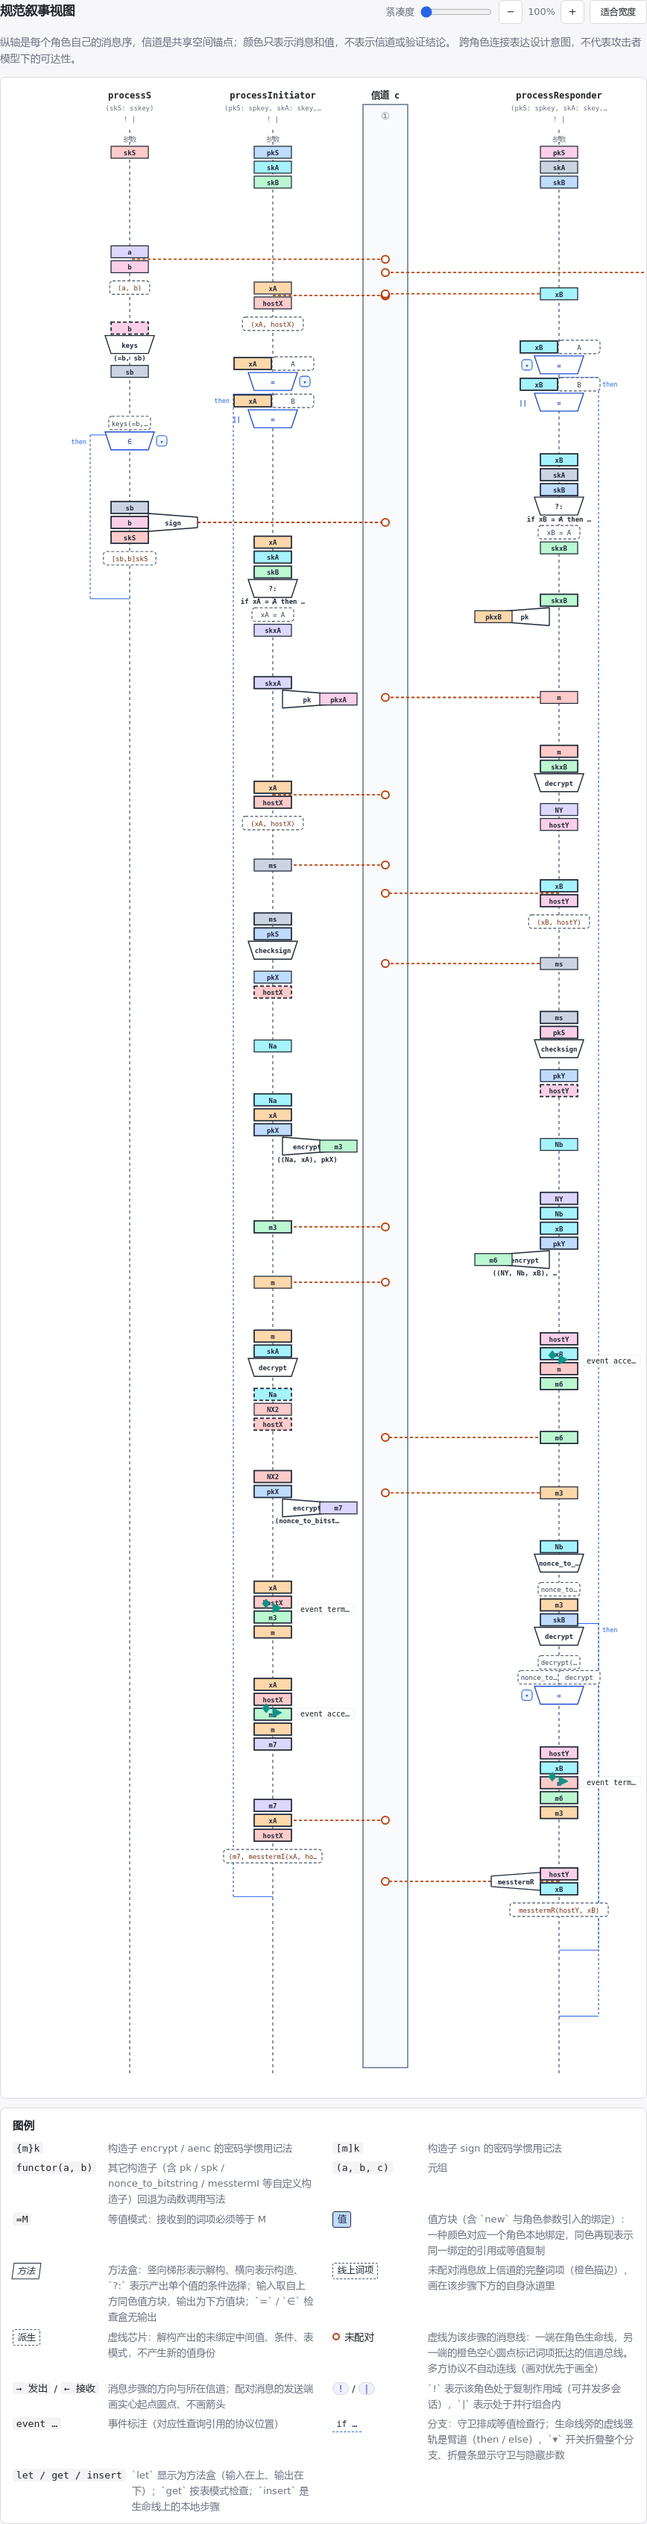
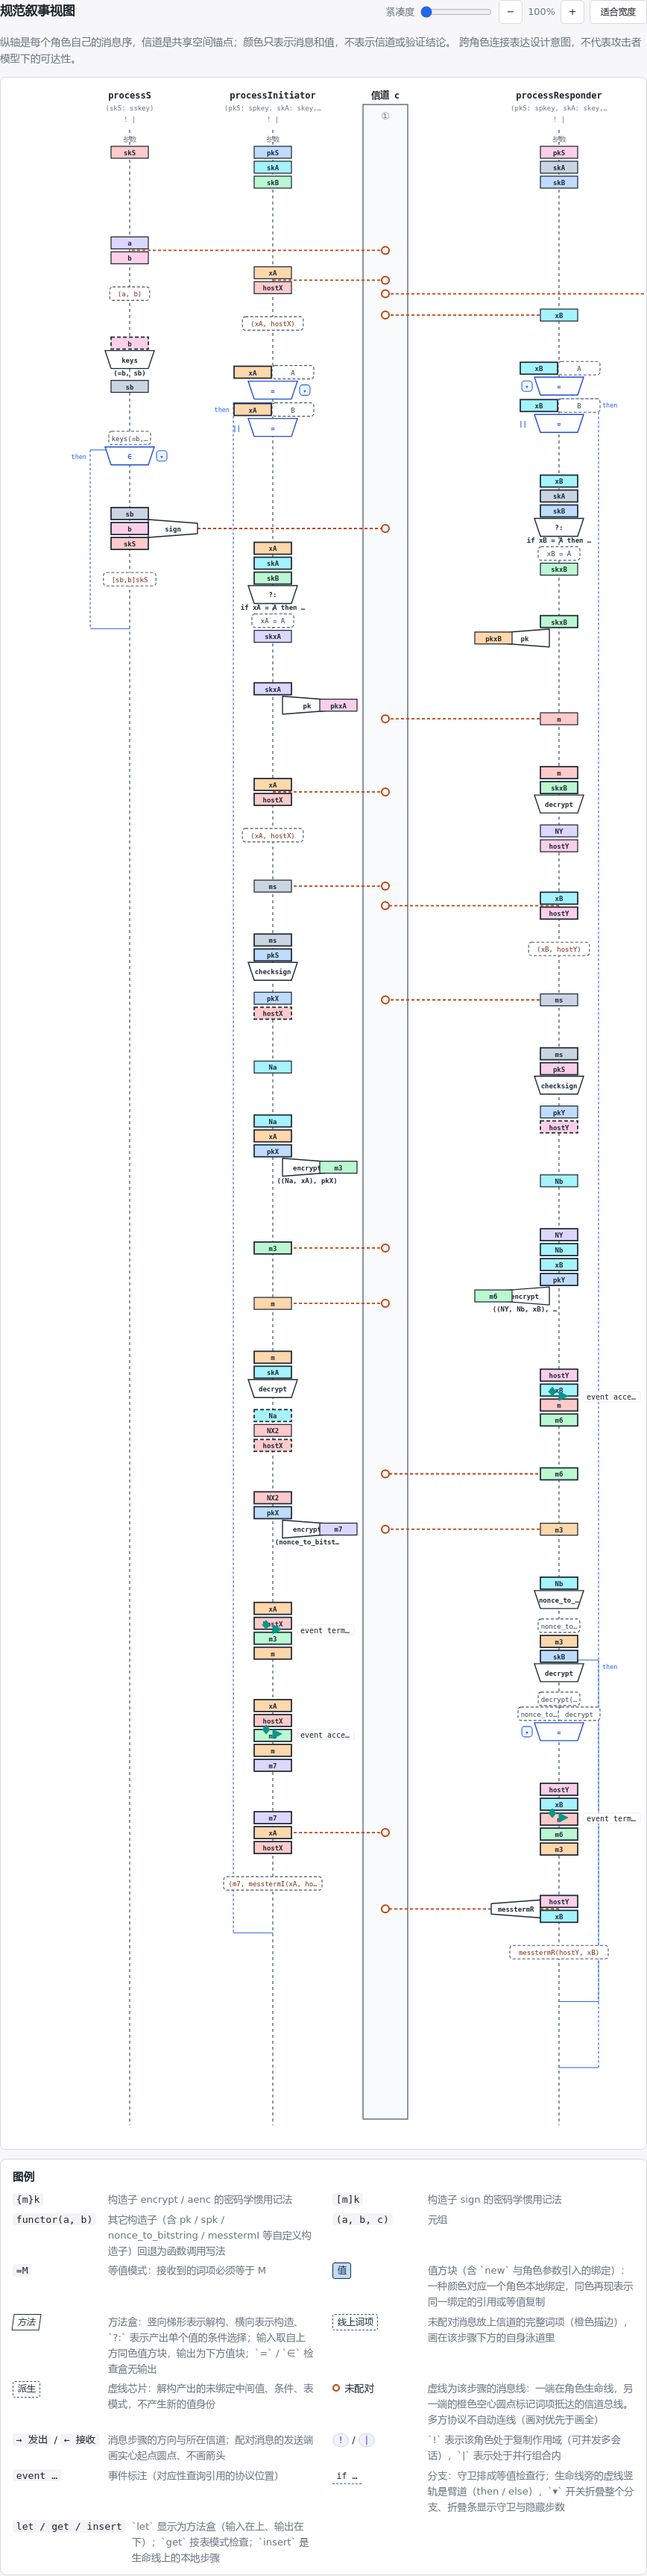
fix(pv-lens): address ticket 07a code-review findings
- global y-uniqueness domain now holds message endpoints only (local
  steps no longer push message arrows down; spurious conflicts gone)
- spacing iteration runs to band-set fixpoint (cap 6) with a final
  residual check: mutual-crossing wires can make the greedy path
  oscillate (fixpoint exists but is unreachable); leftovers surface as
  explicit spacing-band conflicts instead of silent overlap
- unified action-start line across roles (max param-cluster bottom +
  group tier, decision 08 clause 4); wire chips become standalone tight
  units instead of folded into row height
- reuse core gapUnitOf; drop prefix round-trip map; per-role fallback;
  kind/rigid documented as caller contracts

diff --git a/pv-lens/packages/web/src/narrative/structured-layout.ts b/pv-lens/packages/web/src/narrative/structured-layout.ts
@@ -11,7 +11,7 @@ import type {
   SourceSpan,
 } from '@pv-lens/core';
 import { narrativeRoleOrder, renderTerm, solveHorizontalSequence } from '@pv-lens/core';
-import { solveSpacing } from '@pv-lens/core';
+import { gapUnitOf, solveSpacing } from '@pv-lens/core';
 import type { SpacingUnit } from '@pv-lens/core';
 import type { HorizontalNode, HorizontalSequence } from '@pv-lens/core';
 
@@ -279,7 +279,7 @@ export function buildStructuredNarrativeLayout(
 ): StructuredNarrativeLayout {
   const roles = narrativeRoleOrder(result);
   const compactness = clamp(options.compactness ?? 0, 0, 1);
-  const gapUnit = 26 - compactness * 8;
+  const gapUnit = gapUnitOf(compactness);
   const horizontal = solveHorizontalSequence(result);
   const roleByName = new Map(roles.map((role) => [role.name, role]));
   // 臂道画在信道外侧、构造链画在内侧（朝信道）——与 prototype 08 同口径。
@@ -388,9 +388,6 @@ export function buildStructuredNarrativeLayout(
       : item.kind === 'message'
         ? METRICS.messageHeight
         : METRICS.localHeight;
-  const startOffsetOf = (parameterCount: number): number => parameterCount === 0
-    ? margin + METRICS.headerHeight + METRICS.parameterHeight
-    : METRICS.headerHeight + METRICS.parameterLabelGap + 14;
   /** 该消息端的水平线穿过的中间角色下标（解算器据此产生禁置带；几何判定只在此处）。 */
   const crossedRolesOf = (roleName: string, channelName: string): number[] => {
     const column = roleColumns.get(roleName);
@@ -413,17 +410,26 @@ export function buildStructuredNarrativeLayout(
 
   interface RowMeta { chain: readonly ChainEntry[]; rowHeight: number; chip: boolean }
   /**
-   * 三段式（ticket 07）：一次遍历构建每角色的布局单元（参数簇 / 行 / 折叠条），
+   * 三段式（ticket 07）：一次遍历构建每角色的布局单元（参数簇 / 行 / 芯片 / 折叠条），
    * 交给 core 的 `solveSpacing` 分配 y（三层档位、禁置带收敛、显式冲突都在解算器内），
-   * 发射阶段只按解算结果摆放。参数簇与折叠条是刚性单元；行单元的高度含未配对
-   * 线上芯片的附加段；群组边界（参数簇后首行 / join 后 / 折叠条后）用 group 档。
+   * 发射阶段只按解算结果摆放。参数簇与折叠条是刚性单元；未配对线上芯片是紧跟其行的
+   * 独立 tight 单元（decision 08 把芯片列为闭集单元，不并入行高）；群组边界
+   * （参数簇后首行 / join 后 / 折叠条后）用 group 档。动作区起点全图统一：
+   * 所有角色的首行 top = max(各角色参数簇底) + group 档（decision 08 §4）。
    */
   const rowMetaByKey = new Map<string, RowMeta>();
   const unitsByRole: SpacingUnit[][] = roles.map(() => []);
+  const parameterClusterHeight = roles.reduce(
+    (max, role) => Math.max(max, role.bindings.filter((binding) => binding.kind === 'parameter').length * METRICS.valuePitch),
+    0,
+  );
+  const parameterTop = METRICS.headerHeight + METRICS.parameterLabelGap + 14;
+  // 无参数簇的角色从统一动作线起步；有簇角色的簇固定画在 paramTop，簇后首行经 group 档落在同一条线上。
+  const actionStart = parameterTop + parameterClusterHeight + Math.max(50, 2.4 * gapUnit);
   const startOffsets: number[] = [];
   roles.forEach((role, roleIndex) => {
     const parameterCount = role.bindings.filter((binding) => binding.kind === 'parameter').length;
-    startOffsets[roleIndex] = startOffsetOf(parameterCount);
+    startOffsets[roleIndex] = parameterCount > 0 ? parameterTop : actionStart;
     const units = unitsByRole[roleIndex] ?? [];
     unitsByRole[roleIndex] = units;
     if (parameterCount > 0) {
@@ -463,12 +469,12 @@ export function buildStructuredNarrativeLayout(
       const rowHeight = Math.max(baseHeightOf(item), chainHeightOf(chain) + METRICS.chainPadding);
       const chip = wireChipOf(item, roleIndex);
       const message = item.kind === 'message';
+      const key = rowKeyOf(roleIndex, itemIndex);
       units.push({
-        id: rowKeyOf(roleIndex, itemIndex),
+        id: key,
         roleIndex,
         kind: 'row',
-        // 行高含未配对线上芯片段（芯片排在该行值层之下，占位须一并入解算）。
-        height: rowHeight + (chip ? METRICS.wireChipGap + METRICS.chipHeight : 0),
+        height: rowHeight,
         rigid: false,
         messageEndpoint: message,
         ...(message
@@ -476,7 +482,19 @@ export function buildStructuredNarrativeLayout(
           : {}),
         gapTier: prevIsBoundary ? 'group' : 'row',
       });
-      rowMetaByKey.set(rowKeyOf(roleIndex, itemIndex), { chain, rowHeight, chip });
+      if (chip) {
+        // 芯片是独立 tight 单元：不占消息箭头的唯一域，只随行栈推进。
+        units.push({
+          id: `${key}:chip`,
+          roleIndex,
+          kind: 'row',
+          height: METRICS.chipHeight,
+          rigid: false,
+          messageEndpoint: false,
+          gapTier: 'tight',
+        });
+      }
+      rowMetaByKey.set(key, { chain, rowHeight, chip });
       prevIsBoundary = item.kind === 'branch' && item.marker === 'join';
     });
   });
@@ -486,12 +504,7 @@ export function buildStructuredNarrativeLayout(
     reserveHalf: METRICS.crossReserveHalf,
     startOffsetByRole: startOffsets,
   });
-  const rowYOf = (key: string): number => spacing.yByUnitId.get(key) ?? (startOffsets[0] ?? margin);
-  const foldYByBranch = new Map(
-    [...spacing.yByUnitId.keys()]
-      .filter((key) => key.startsWith('fold:'))
-      .map((key) => [key.slice('fold:'.length), spacing.yByUnitId.get(key) ?? 0]),
-  );
+  const rowYOf = (key: string, fallback: number): number => spacing.yByUnitId.get(key) ?? fallback;
 
   roles.forEach((role, roleIndex) => {
     const column = roleColumns.get(role.name);
@@ -532,7 +545,7 @@ export function buildStructuredNarrativeLayout(
       if (isBranchStart(item) && collapsedBranches.has(item.id)) {
         const hiddenCount = countBranchItems(role.items, itemIndex);
         const height = METRICS.branchFoldHeight;
-        const y = foldYByBranch.get(item.id) ?? rowYOf(`fold:${item.id}`);
+        const y = rowYOf(`fold:${item.id}`, startOffsets[roleIndex] ?? margin);
         const label = `▸ ${branchLabel(item)} · +${String(hiddenCount)}`;
         // 折叠条封在自身泳道内（F8）：不再越列压到邻列元素，文字随宽截断。
         const width = Math.min(METRICS.branchFoldMaxWidth, METRICS.columnWidth - 8, 24 + label.length * CHAR_WIDTH);
@@ -554,12 +567,11 @@ export function buildStructuredNarrativeLayout(
       }
 
       const stepItem = item.kind === 'message' ? item : undefined;
-      let wireChipBottom = 0;
       // 行几何来自单元构建缓存（chain 只算一遍），y 来自 core 解算器；兜底路径仅防御解算缺项。
       const meta = rowMetaByKey.get(rowKeyOf(roleIndex, itemIndex));
       const chain = meta?.chain ?? chainOfItem(item, roleIndex);
       const rowHeight = meta?.rowHeight ?? Math.max(baseHeightOf(item), chainHeightOf(chain) + METRICS.chainPadding);
-      const y = rowYOf(rowKeyOf(roleIndex, itemIndex));
+      const y = rowYOf(rowKeyOf(roleIndex, itemIndex), startOffsets[roleIndex] ?? margin);
 
       if (item.kind === 'branch') {
         if (item.marker === 'branch') {
@@ -828,12 +840,11 @@ export function buildStructuredNarrativeLayout(
               });
             }
           }
-          // 未配对端的线上词项芯片（F2）：落在自身泳道、该行值层之下，宽度按文字估算，
-          // 描边用未配对橙与虚线/空心点同色——不再画在 0.72 分位点压住邻列文字。
-          if (meta?.chip === true) {
+          // 未配对端的线上词项芯片（F2）：独立的 tight 单元（ticket 07），y 由解算器分配，
+          // 宽度按文字估算；描边用未配对橙与虚线/空心点同色。
+          if (meta?.chip === true && stepItem !== undefined) {
             const text = renderTerm(stepItem.endpoint.term);
             const chipWidth = Math.min(METRICS.wireChipMaxWidth, 20 + text.length * CAPTION_CHAR_WIDTH);
-            const chipY = Math.max(y + rowHeight / 2, slotTop) + METRICS.wireChipGap + METRICS.chipHeight / 2;
             chips.push({
               id: `${item.id}:wire-chip`,
               roleIndex,
@@ -841,20 +852,15 @@ export function buildStructuredNarrativeLayout(
               kind: 'wire',
               color: UNPAIRED_COLOR,
               x: lifelineX,
-              y: chipY,
+              y: rowYOf(`${rowKeyOf(roleIndex, itemIndex)}:chip`, y + rowHeight / 2 + METRICS.chipHeight / 2),
               width: chipWidth,
               height: METRICS.chipHeight,
               sourceSpan: item.span,
             });
             maxTextRight = Math.max(maxTextRight, lifelineX + chipWidth / 2);
-            wireChipBottom = chipY + METRICS.chipHeight / 2;
           }
         }
       }
-
-      // 芯片可能因禁置带/链下移而低于常规行底，游标取两者较大者。
-      // 解算器已含全部占位（含芯片段）；发射侧只需兜底「芯片因链槽极端排布低于单元底」的极端情形。
-      if (wireChipBottom > 0) maxBottom = Math.max(maxBottom, wireChipBottom + gapUnit);
     });
   });
 

diff --git a/pv-lens/packages/core/src/spacing.ts b/pv-lens/packages/core/src/spacing.ts
@@ -13,10 +13,11 @@ export type GapTier = 'tight' | 'row' | 'group';
 export interface SpacingUnit {
   id: string;
   roleIndex: number;
-  /** 单元类别；行（含消息行/事件/本地步骤/链）由调用方合并为 row 单元。 */
+  /** 单元类别；解算器不按 kind 分支（高度不透明即刚性）——kind 供 07b 折叠团与调试定位。 */
   kind: 'parameter-cluster' | 'row' | 'branch-fold' | 'fold-group';
   height: number;
-  /** 刚性单元（参数簇/折叠团）：内部间距已计入 height，只整体放置，绝不压缩。 */
+  /** 刚性声明（参数簇/折叠团）：内部间距已计入 height；解算器对任何单元都只整体放置，
+   *  flag 是调用方契约自述，供读取方识别「该高度不可再分解」。 */
   rigid: boolean;
   /** 消息端行：y 进入全局唯一域，并对 crossedRoles 列产生禁置带。 */
   messageEndpoint: boolean;
@@ -73,19 +74,58 @@ const SEPARATION_STEP = 4;
 const BAND_MARGIN = 2;
 
 /**
- * 解算纵向布局。禁置带依赖消息端 y、消息端 y 又依赖禁置带，故内部做三遍迭代
- * （第一遍无带求初始线位，随后每遍用最新带重放）；输入确定则输出确定。
+ * 解算纵向布局。禁置带依赖消息端 y、消息端 y 又依赖禁置带，故迭代至带集合稳定
+ * （每遍用最新带重放；稳定 = 放置所用带与解自身导出的带一致，即自洽），上限 6 遍；
+ * 输入确定则输出确定。互穿线过度约束、残留带命中时由 placeUnits 记为显式冲突。
  */
 export function solveSpacing(request: SpacingRequest): SpacingSolution {
   const unit = gapUnitOf(request.compactness);
   const reserveHalf = request.reserveHalf ?? 11;
   let reserved = new Map<number, number[]>();
   let solution = placeUnits(request, unit, reserveHalf, reserved);
-  for (let pass = 0; pass < 2; pass += 1) {
-    reserved = deriveReservations(request, solution);
+  for (let pass = 0; pass < 6; pass += 1) {
+    const next = deriveReservations(request, solution);
+    if (sameBands(next, reserved)) break;
+    reserved = next;
     solution = placeUnits(request, unit, reserveHalf, reserved);
   }
-  return { ...solution, reservedByRole: deriveReservations(request, solution) };
+  // 终检：互穿线 + 全局唯一性的贪心迭代可能周期振荡（稳定解存在但该路径找不到）。
+  // 放置带与最终带不一致的残留命中必须显式标记，不静默重叠。
+  const finalReserved = deriveReservations(request, solution);
+  const residual: SpacingConflict[] = [];
+  request.unitsByRole.forEach((units, roleIndex) => {
+    const bands = finalReserved.get(roleIndex) ?? [];
+    units.forEach((spacingUnit) => {
+      const y = solution.yByUnitId.get(spacingUnit.id);
+      if (y === undefined) return;
+      const clashing = bands.some((bandY) =>
+        y - spacingUnit.height / 2 - BAND_MARGIN < bandY + reserveHalf && y + spacingUnit.height / 2 + BAND_MARGIN > bandY - reserveHalf);
+      if (clashing) {
+        residual.push({
+          id: `spacing-band:${spacingUnit.id}`,
+          roleIndex,
+          y,
+          message: '跨列消息线与该单元的禁置带约束未能在迭代内自洽，已显式保留并延长生命线。',
+        });
+      }
+    });
+  });
+  const seen = new Set(solution.conflicts.map((conflict) => conflict.id));
+  return {
+    ...solution,
+    conflicts: [...solution.conflicts, ...residual.filter((conflict) => !seen.has(conflict.id))],
+    reservedByRole: finalReserved,
+  };
+}
+
+function sameBands(a: ReadonlyMap<number, readonly number[]>, b: ReadonlyMap<number, readonly number[]>): boolean {
+  if (a.size !== b.size) return false;
+  for (const [key, values] of a) {
+    const other = b.get(key);
+    if (other === undefined || other.length !== values.length) return false;
+    if ([...values].sort((x, y) => x - y).some((value, index) => value !== [...other].sort((x, y) => x - y)[index])) return false;
+  }
+  return true;
 }
 
 interface Placement {
@@ -103,6 +143,8 @@ function placeUnits(
   const yByUnitId = new Map<string, number>();
   const bottomByRole: number[] = [];
   const conflicts: SpacingConflict[] = [];
+  // 全局唯一域只收消息端 y：本地步骤/事件/折叠条不占消息箭头的纵向位置
+  // （票面「本地步骤不占消息箭头」；跨角色行也不承诺对齐）。
   const usedY = new Set<number>();
   request.unitsByRole.forEach((units, roleIndex) => {
     const bands = reserved.get(roleIndex) ?? [];
@@ -111,16 +153,29 @@ function placeUnits(
     units.forEach((spacingUnit) => {
       const gap = gapOf(spacingUnit.gapTier, unit);
       const nominalY = cursor + gap + spacingUnit.height / 2;
-      let y = settleY(nominalY, spacingUnit.height, usedY, bands, reserveHalf);
-      if (y > nominalY + 1e-9 && spacingUnit.messageEndpoint) {
+      const y = settleY(nominalY, spacingUnit.height, usedY, bands, reserveHalf);
+      if (spacingUnit.messageEndpoint) {
+        usedY.add(y);
+        if (y > nominalY + 1e-9) {
+          conflicts.push({
+            id: `spacing:${spacingUnit.id}`,
+            roleIndex,
+            y,
+            message: '消息端为满足跨列禁置带或全局 y 唯一性而下移，已延长生命线（非静默重排）。',
+          });
+        }
+      }
+      // 残留带命中（互穿线过度约束、迭代上限内未自洽）→ 显式标记，不静默重叠。
+      const clashing = bands.find((bandY) =>
+        y - spacingUnit.height / 2 - BAND_MARGIN < bandY + reserveHalf && y + spacingUnit.height / 2 + BAND_MARGIN > bandY - reserveHalf);
+      if (clashing !== undefined) {
         conflicts.push({
-          id: `spacing:${spacingUnit.id}`,
+          id: `spacing-band:${spacingUnit.id}`,
           roleIndex,
           y,
-          message: '消息端为满足跨列禁置带或全局 y 唯一性而下移，已延长生命线（非静默重排）。',
+          message: '跨列消息线与该单元的禁置带约束未能在迭代内自洽，已显式保留并延长生命线。',
         });
       }
-      usedY.add(y);
       yByUnitId.set(spacingUnit.id, y);
       cursor = y + spacingUnit.height / 2;
     });

diff --git a/pv-lens/packages/core/test/ticket07-spacing.test.ts b/pv-lens/packages/core/test/ticket07-spacing.test.ts
@@ -111,4 +111,35 @@ describe('ticket #07：自适应纵向间距解算器（core 属性）', () => {
     expect(gapOf('row', gapUnitOf(1))).toBe(34);
     expect(gapOf('group', gapUnitOf(1))).toBe(50);
   });
+
+  it('本地步骤不占消息箭头的纵向位置：非消息行与消息端可同 y 且不产冲突', () => {
+    const solution = solveSpacing({
+      unitsByRole: [
+        [row('local', 0)],
+        [row('msg', 1, { messageEndpoint: true })],
+      ],
+      compactness: 0,
+      startOffsetByRole: [100, 100],
+    });
+    expect(solution.yByUnitId.get('local')).toBe(solution.yByUnitId.get('msg'));
+    expect(solution.conflicts).toHaveLength(0);
+  });
+
+  it('互穿消息线：要么自洽、要么振荡残留被显式标记，不允许静默重叠', () => {
+    const solution = solveSpacing({
+      unitsByRole: [
+        [row('a1', 0, { messageEndpoint: true, crossedRoles: [1] })],
+        [row('b1', 1, { messageEndpoint: true, crossedRoles: [0] })],
+      ],
+      compactness: 0,
+      startOffsetByRole: [100, 100],
+    });
+    const ys = [solution.yByUnitId.get('a1')!, solution.yByUnitId.get('b1')!];
+    expect(new Set(ys).size).toBe(2);
+    // 自洽时无残留标记；振荡时残留命中必须以 spacing-band 冲突显式出现。
+    const residual = solution.conflicts.filter((conflict) => conflict.id.startsWith('spacing-band:'));
+    if (residual.length > 0) {
+      expect(residual[0]?.message).toContain('显式');
+    }
+  });
 });

diff --git a/.scratch/pv-lens-v2/issues/07-elastic-spacing-and-density.md b/.scratch/pv-lens-v2/issues/07-elastic-spacing-and-density.md
@@ -32,3 +32,5 @@
 - 冲突呈现（NarrativeView）：聚合为右缘三角 + 冲突数 + title/aria 全文（原逐条长文本从右缘向右绘制必然越界，ticket02 右缘测试暴露）。
 - 行距变化归因：row 档与 group 档取代旧单值 gapUnit，四样例高度普遍增加——decision 08 规范数值，属票面预期而非回归；296 项测试的几何合同（无交叠、y 单调、全局唯一、标签预算、折叠无交叠）全部保持。
 - 验收：32 文件 296 项全绿、typecheck/build 通过；四样例截图（07-screenshots 目录），ns-mutual 出现 1 处显式冲突标记（消息端让位语义的实例）。剩余 07b：密集算子簇折叠与幽灵值块（spec 51-53）、已配对端点点选命中提示（06 移交）。
+
+2026-11-01，07a code-review（两轴子代理）落实：Spec 轴三缺陷修复——全局唯一域只收消息端 y（本地步骤/事件/折叠条不再把消息端挤下，消除伪冲突）；迭代改为「至带集合稳定（上限 6 遍）」并加终检（贪心迭代在互穿线 + 全局唯一性下可周期振荡——稳定解存在但该路径找不到，实测二角色互穿样例即振荡；放置带与最终带不一致的残留命中以 spacing-band 冲突显式标记，不静默重叠）；新增属性用例固化两者。Standards 轴——动作区起点全图统一（首行 top = 参数簇最高底 + group 档，decision 08 第 4 条）；未配对线上芯片改为独立 tight 单元（不再并入行高，row 档语义恢复「消息行与相邻单元之间」）；gapUnit 复用 core gapUnitOf；折叠条 y 直查解算输出（删前缀往返 Map）；rowYOf 兜底改用本角色起始偏移；kind/rigid 字段注释言明契约（解算器不按其分支，height 不透明即刚性）。判断性不落实记录：测试重编码档位常数视为合同固化；NV 冲突标记锚定首冲突位置。修复后 32 文件 298 项全绿、四样例截图复验（hello 高度 304.6——动作线统一后无参数角色留白对齐，属 decision 08 预期；handshake/ns-original 各 1 处真冲突标记）。
